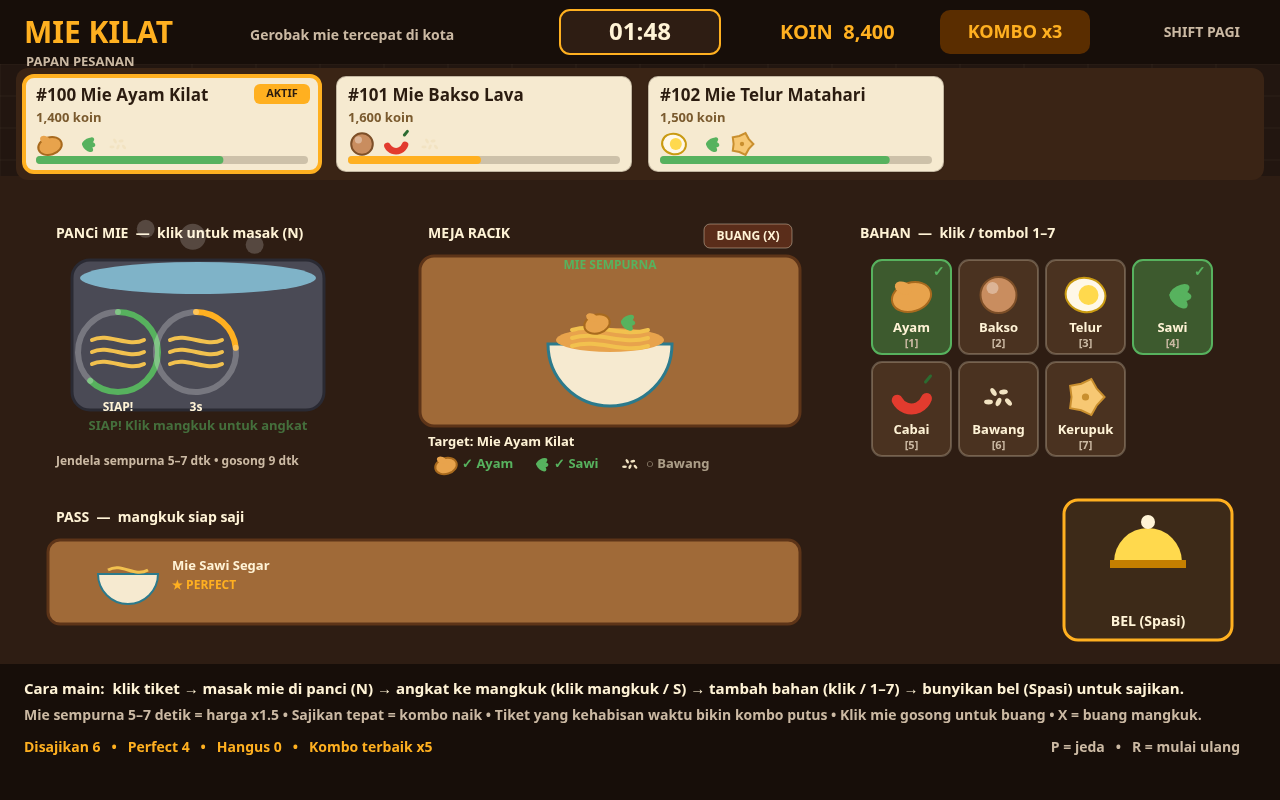
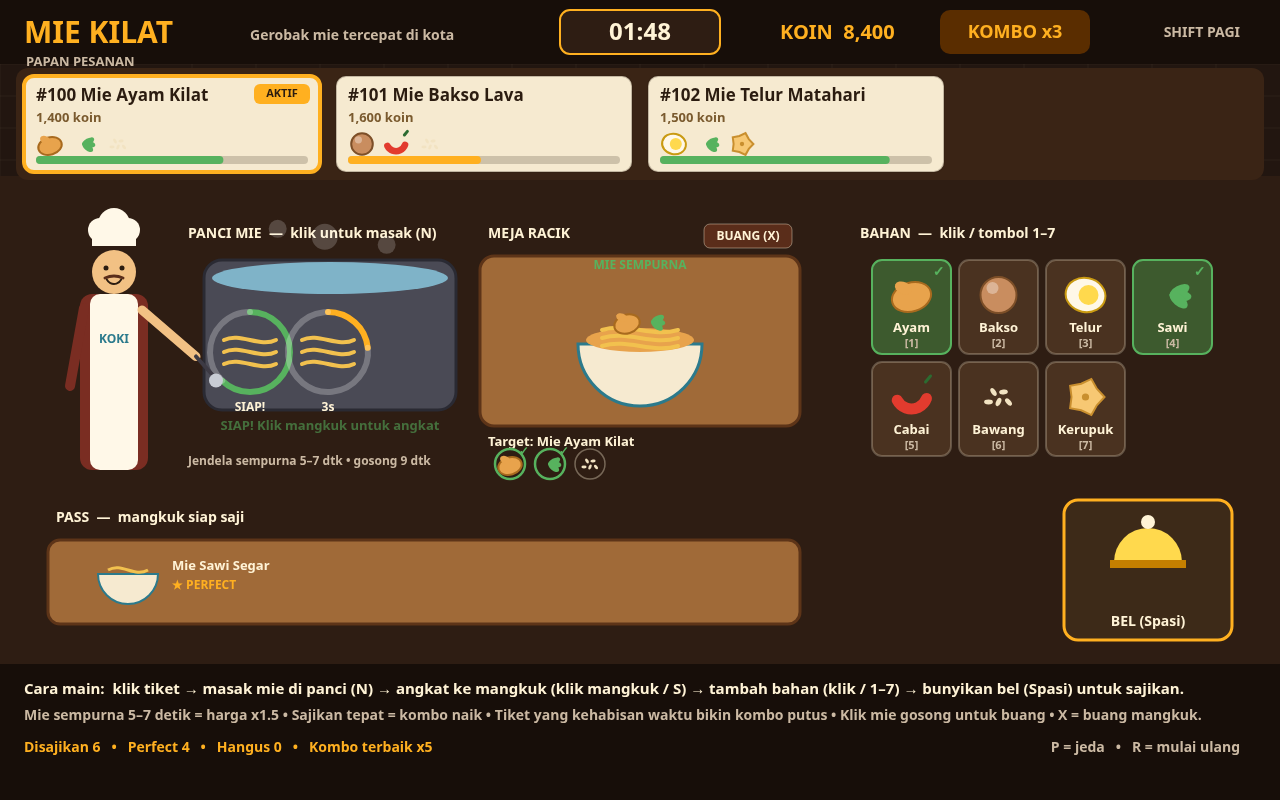
v3: add KOKI the chef stirring the pot + big chef on title screen

Changed region(s): [[0.0312, 0.25, 0.5625, 0.5938], [0.4375, 0.3125, 0.5312, 0.3438]]

diff --git a/game/src/render.js b/game/src/render.js
@@ -119,7 +119,7 @@ function drawTicket(ctx, t, x, y, w, h, active, now) {
 function drawPot(ctx, w, now) {
   const p = LAYOUT.pot;
   ctx.save();
-  text(ctx, 'PANCi MIE  —  klik untuk masak (N)', p.x + 8, p.y + 18, 14, COLORS.cream);
+  text(ctx, 'PANCI MIE  —  klik untuk masak (N)', p.x + 8, p.y + 18, 14, COLORS.cream);
   // Pot body.
   rr(ctx, p.x + 24, p.y + 44, p.w - 48, 150, 18);
   ctx.fillStyle = COLORS.pot; ctx.fill();
@@ -227,17 +227,63 @@ function drawBowl(ctx, w) {
   if (t) {
     const recipe = recipeById(t.recipeId);
     text(ctx, `Target: ${recipe.name}`, b.x + 8, b.y + 226, 13, COLORS.cream);
+    // Checklist as icons only (the narrow panel has no room for names):
+    // a green ring + tick marks a topping already in the bowl.
     recipe.toppings.forEach((id, i) => {
       const done = w.bowl.toppings.includes(id);
-      const x = b.x + 16 + i * 92;
+      const x = b.x + 30 + i * 40;
       const y = b.y + 226 + 22;
-      drawToppingIcon(ctx, id, x + 10, y, 11);
-      ctx.fillStyle = done ? COLORS.green : 'rgba(255,243,214,0.6)';
-      ctx.font = 'bold 13px system-ui, sans-serif';
-      ctx.textAlign = 'left'; ctx.textBaseline = 'middle';
-      ctx.fillText(`${done ? '✓' : '○'} ${toppingById(id).name}`, x + 26, y);
+      drawToppingIcon(ctx, id, x, y, 12);
+      ctx.lineWidth = done ? 2.5 : 1.5;
+      ctx.strokeStyle = done ? COLORS.green : 'rgba(255,243,214,0.35)';
+      ctx.beginPath(); ctx.arc(x, y, 15, 0, Math.PI * 2); ctx.stroke();
+      if (done) text(ctx, '✓', x + 14, y - 12, 12, COLORS.green, 'bold', 'center');
     });
   }
+  ctx.restore();
+}
+
+// The chef who prepares the food: toque, face, apron, and a stirring arm
+// whose ladle dips into the pot (bob follows `now`, frozen in ?shot= mode).
+// (cx, top) is the centre of the hat; s scales the whole figure.
+function drawChef(ctx, cx, top, s, now) {
+  const bob = Math.sin(now * 2) * 4 * s;
+  ctx.save();
+  // Toque.
+  ctx.fillStyle = '#fff8e8';
+  ctx.beginPath(); ctx.arc(cx - 14 * s, top + 14 * s, 12 * s, 0, Math.PI * 2); ctx.fill();
+  ctx.beginPath(); ctx.arc(cx + 14 * s, top + 14 * s, 12 * s, 0, Math.PI * 2); ctx.fill();
+  ctx.beginPath(); ctx.arc(cx, top + 8 * s, 16 * s, 0, Math.PI * 2); ctx.fill();
+  ctx.fillRect(cx - 22 * s, top + 20 * s, 44 * s, 10 * s);
+  // Head.
+  ctx.fillStyle = '#f2c184';
+  ctx.beginPath(); ctx.arc(cx, top + 56 * s, 22 * s, 0, Math.PI * 2); ctx.fill();
+  ctx.fillStyle = '#2b1c10';
+  ctx.beginPath(); ctx.arc(cx - 8 * s, top + 52 * s, 2.5 * s, 0, Math.PI * 2); ctx.fill();
+  ctx.beginPath(); ctx.arc(cx + 8 * s, top + 52 * s, 2.5 * s, 0, Math.PI * 2); ctx.fill();
+  // Smile + moustache.
+  ctx.strokeStyle = '#2b1c10'; ctx.lineWidth = 2 * s; ctx.lineCap = 'round';
+  ctx.beginPath(); ctx.arc(cx, top + 60 * s, 8 * s, 0.15 * Math.PI, 0.85 * Math.PI); ctx.stroke();
+  ctx.strokeStyle = '#5a2d1a'; ctx.lineWidth = 3 * s;
+  ctx.beginPath(); ctx.moveTo(cx - 9 * s, top + 62 * s); ctx.quadraticCurveTo(cx, top + 58 * s, cx + 9 * s, top + 62 * s); ctx.stroke();
+  // Body: dark shirt, white apron with a name tag.
+  ctx.fillStyle = '#7a2d22';
+  rr(ctx, cx - 34 * s, top + 78 * s, 68 * s, 176 * s, 12 * s); ctx.fill();
+  ctx.fillStyle = '#fff8e8';
+  rr(ctx, cx - 24 * s, top + 78 * s, 48 * s, 176 * s, 10 * s); ctx.fill();
+  ctx.fillStyle = '#2b7a8c';
+  text(ctx, 'KOKI', cx, top + 124 * s, 12 * s, '#2b7a8c', 'bold', 'center');
+  // Left arm resting on the counter.
+  ctx.strokeStyle = '#7a2d22'; ctx.lineWidth = 10 * s; ctx.lineCap = 'round';
+  ctx.beginPath(); ctx.moveTo(cx - 30 * s, top + 92 * s); ctx.lineTo(cx - 44 * s, top + 170 * s); ctx.stroke();
+  // Right arm stirring: shoulder to ladle over the pot.
+  ctx.strokeStyle = '#f2c184'; ctx.lineWidth = 9 * s;
+  ctx.beginPath(); ctx.moveTo(cx + 28 * s, top + 94 * s); ctx.lineTo(cx + 82 * s, top + 138 * s + bob); ctx.stroke();
+  // Ladle: handle + little bowl.
+  ctx.strokeStyle = '#3d3a44'; ctx.lineWidth = 4 * s;
+  ctx.beginPath(); ctx.moveTo(cx + 82 * s, top + 138 * s + bob); ctx.lineTo(cx + 100 * s, top + 158 * s + bob); ctx.stroke();
+  ctx.fillStyle = '#c8ccd4';
+  ctx.beginPath(); ctx.arc(cx + 102 * s, top + 162 * s + bob, 7 * s, 0, Math.PI * 2); ctx.fill();
   ctx.restore();
 }
 
@@ -372,12 +418,13 @@ function drawPopups(ctx, w) {
   }
 }
 
-function drawTitle(ctx, w) {
+function drawTitle(ctx, w, now) {
   ctx.save();
   ctx.fillStyle = 'rgba(20,12,7,0.82)';
   ctx.fillRect(0, 0, W, H);
+  drawChef(ctx, 1100, 200, 1.6, now);
   text(ctx, 'MIE KILAT', 640, 250, 84, COLORS.amber, 'bold', 'center');
-  text(ctx, 'Gerobak mie tercepat di kota — masak, racik, sajikan sebelum pelanggan kabur!', 640, 312, 22, COLORS.cream, 'bold', 'center');
+  text(ctx, 'Gerobak mie tercepat di kota — masak, racik, sajikan!', 640, 312, 22, COLORS.cream, 'bold', 'center');
   text(ctx, '1. Klik tiket di papan pesanan   •   2. Masak mie 5–7 detik sampai SIAP', 640, 372, 18, COLORS.cream, 'bold', 'center');
   text(ctx, '3. Racik topping sesuai resep   •   4. Bunyikan bel untuk sajikan — kombo menanti!', 640, 402, 18, COLORS.cream, 'bold', 'center');
   const b = LAYOUT.startButton;
@@ -446,6 +493,9 @@ export function render(ctx, w, now) {
   });
 
   drawPot(ctx, w, now);
+  // The chef stands left of the pot, stirring — drawn after the pot so the
+  // ladle arm rests over the pot rim.
+  drawChef(ctx, 114, 216, 1, now);
   drawBowl(ctx, w);
   drawBins(ctx, w);
   drawPass(ctx, w, now);
@@ -453,7 +503,7 @@ export function render(ctx, w, now) {
   drawBanner(ctx, w);
   drawPopups(ctx, w);
 
-  if (w.state === 'title') drawTitle(ctx, w);
+  if (w.state === 'title') drawTitle(ctx, w, now);
   if (w.state === 'end') drawEnd(ctx, w);
   if (w.paused && w.state === 'play') {
     ctx.fillStyle = 'rgba(20,12,7,0.7)';

diff --git a/game/src/config.js b/game/src/config.js
@@ -72,9 +72,10 @@ export const SPAWN_PLAN = [
 export const LAYOUT = {
   topBar: { x: 0, y: 0, w: 1280, h: 64 },
   tickets: { x: 24, y: 76, w: 1232, h: 96, cardW: 296, gap: 16 },
-  pot: { x: 48, y: 216, w: 300, h: 260 },
-  potNest: { x: 78, y: 300, w: 240, h: 120 },
-  bowl: { x: 420, y: 216, w: 380, h: 260 },
+  // The chef stands in the x 48–180 column; the pot shifts right to make room.
+  pot: { x: 180, y: 216, w: 300, h: 260 },
+  potNest: { x: 210, y: 300, w: 240, h: 120 },
+  bowl: { x: 480, y: 216, w: 320, h: 260 },
   bins: { x: 852, y: 216, w: 380, h: 260 },
   pass: { x: 48, y: 500, w: 752, h: 140 },
   bell: { x: 1064, y: 500, w: 168, h: 140 },

diff --git a/README.md b/README.md
@@ -38,3 +38,7 @@ The game was built in one recorded session: research first (kit rules, the judge
 ## v2 — post-submit revision (audit-driven)
 
 The post-build audit caught one real soft-lock: burnt nests could never leave the pot, so three burns bricked cooking for the rest of the shift. v2 fixes it — click a burnt nest to discard it — and adds topping toggle (click a topping in the bowl to take it back out) plus a BUANG (X) button that dumps the bowl, so a misclick never forces a 0.6x serve. The serve popup moved to a dark pill above the bell, the CEPAT! urgent label is now solid on a dark pill instead of a pulsing alpha (it vanished in the rush screenshot), screenshot time is frozen so re-shoots are reproducible, and the dead `p226` stub and `void ring` are gone. All four screenshots were re-shot and re-verified after the fixes.
+
+## v3 — the chef (user request)
+
+The game had no person in it, so v3 adds KOKI, the chef who prepares the food: a vector-drawn vendor with a toque, apron and name tag, standing left of the pot with a ladle that stirs the pot (the ladle bobs on the same frozen clock as the steam, so screenshots stay reproducible). The same chef appears large on the title screen. To make room, the pot shifted right and the bowl panel narrowed; the recipe checklist is now icons with a green ring + tick for toppings already in the bowl. The pot header typo ("PANCi") was fixed along the way. All four screenshots were re-shot and re-verified after the change.
